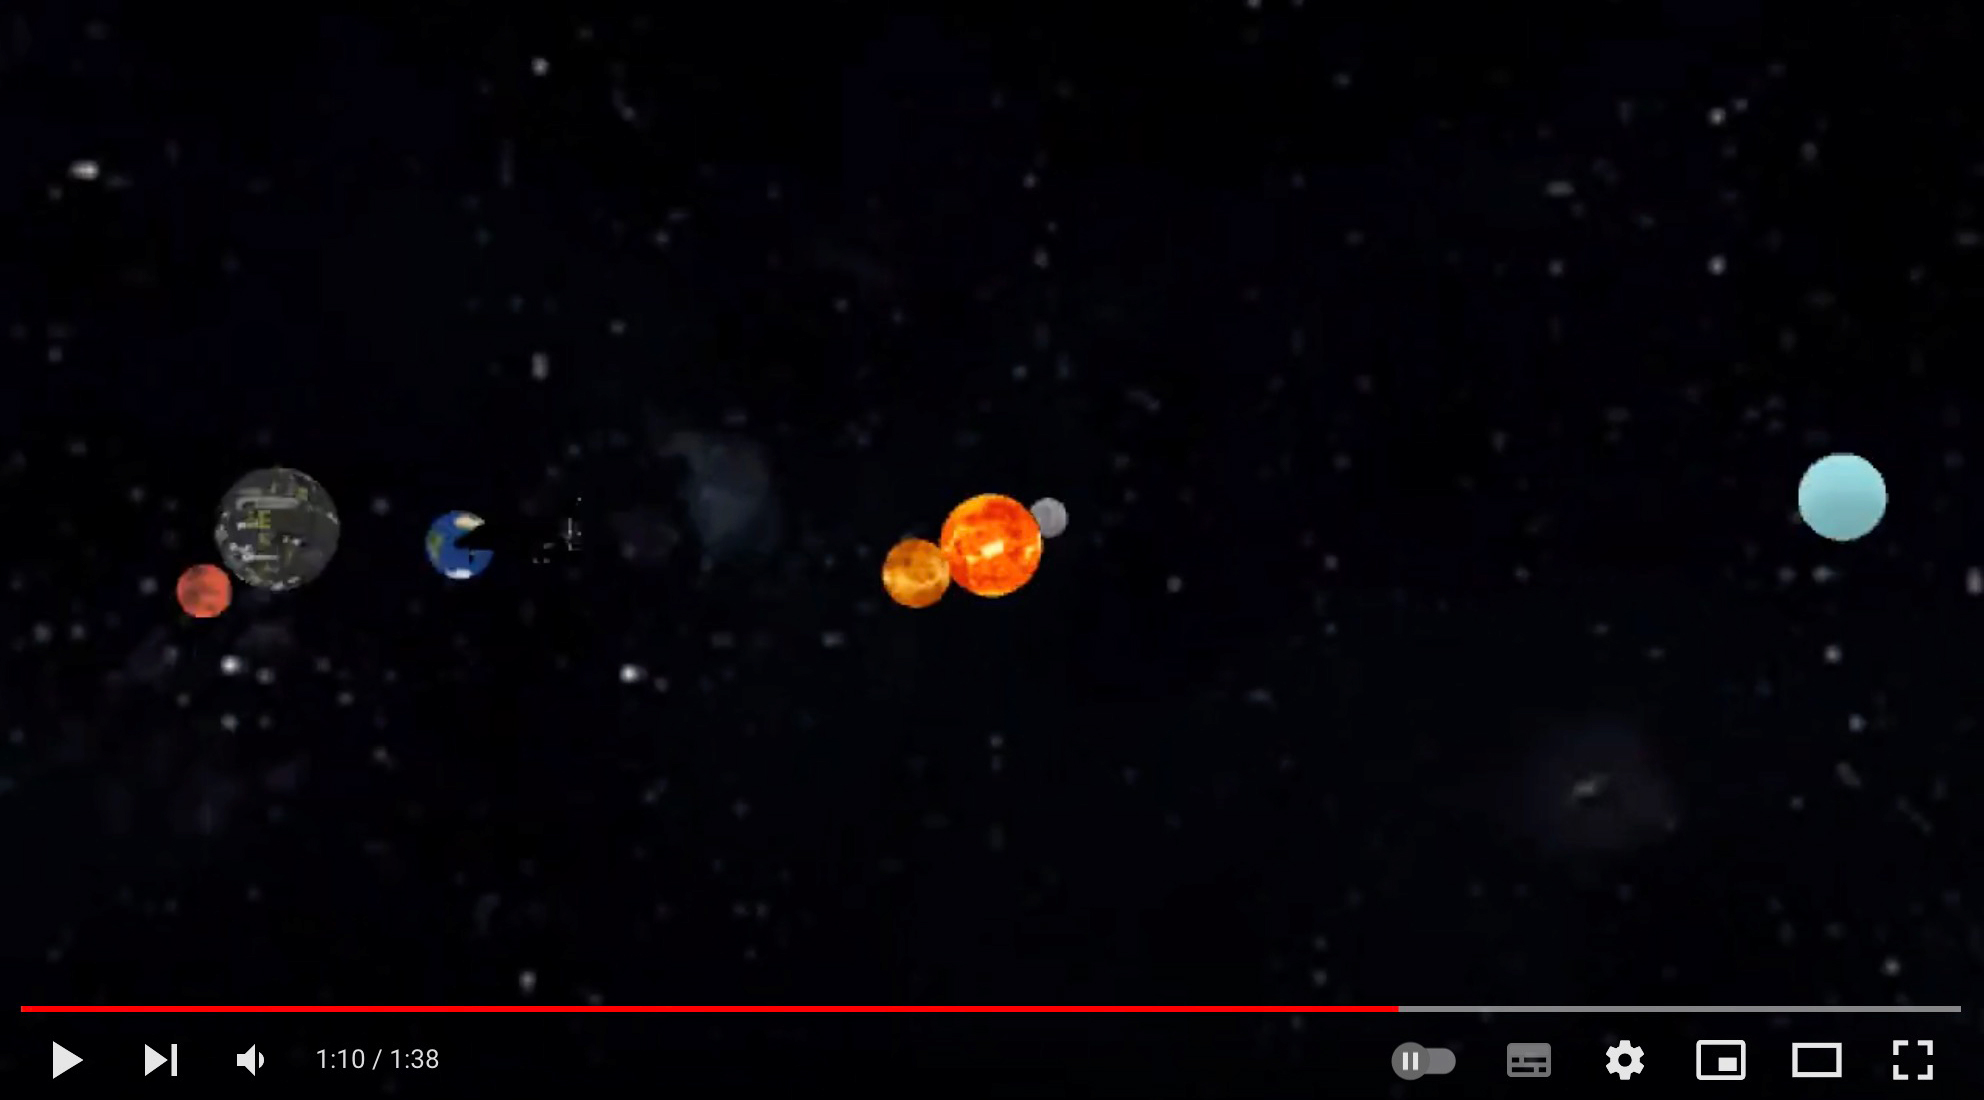
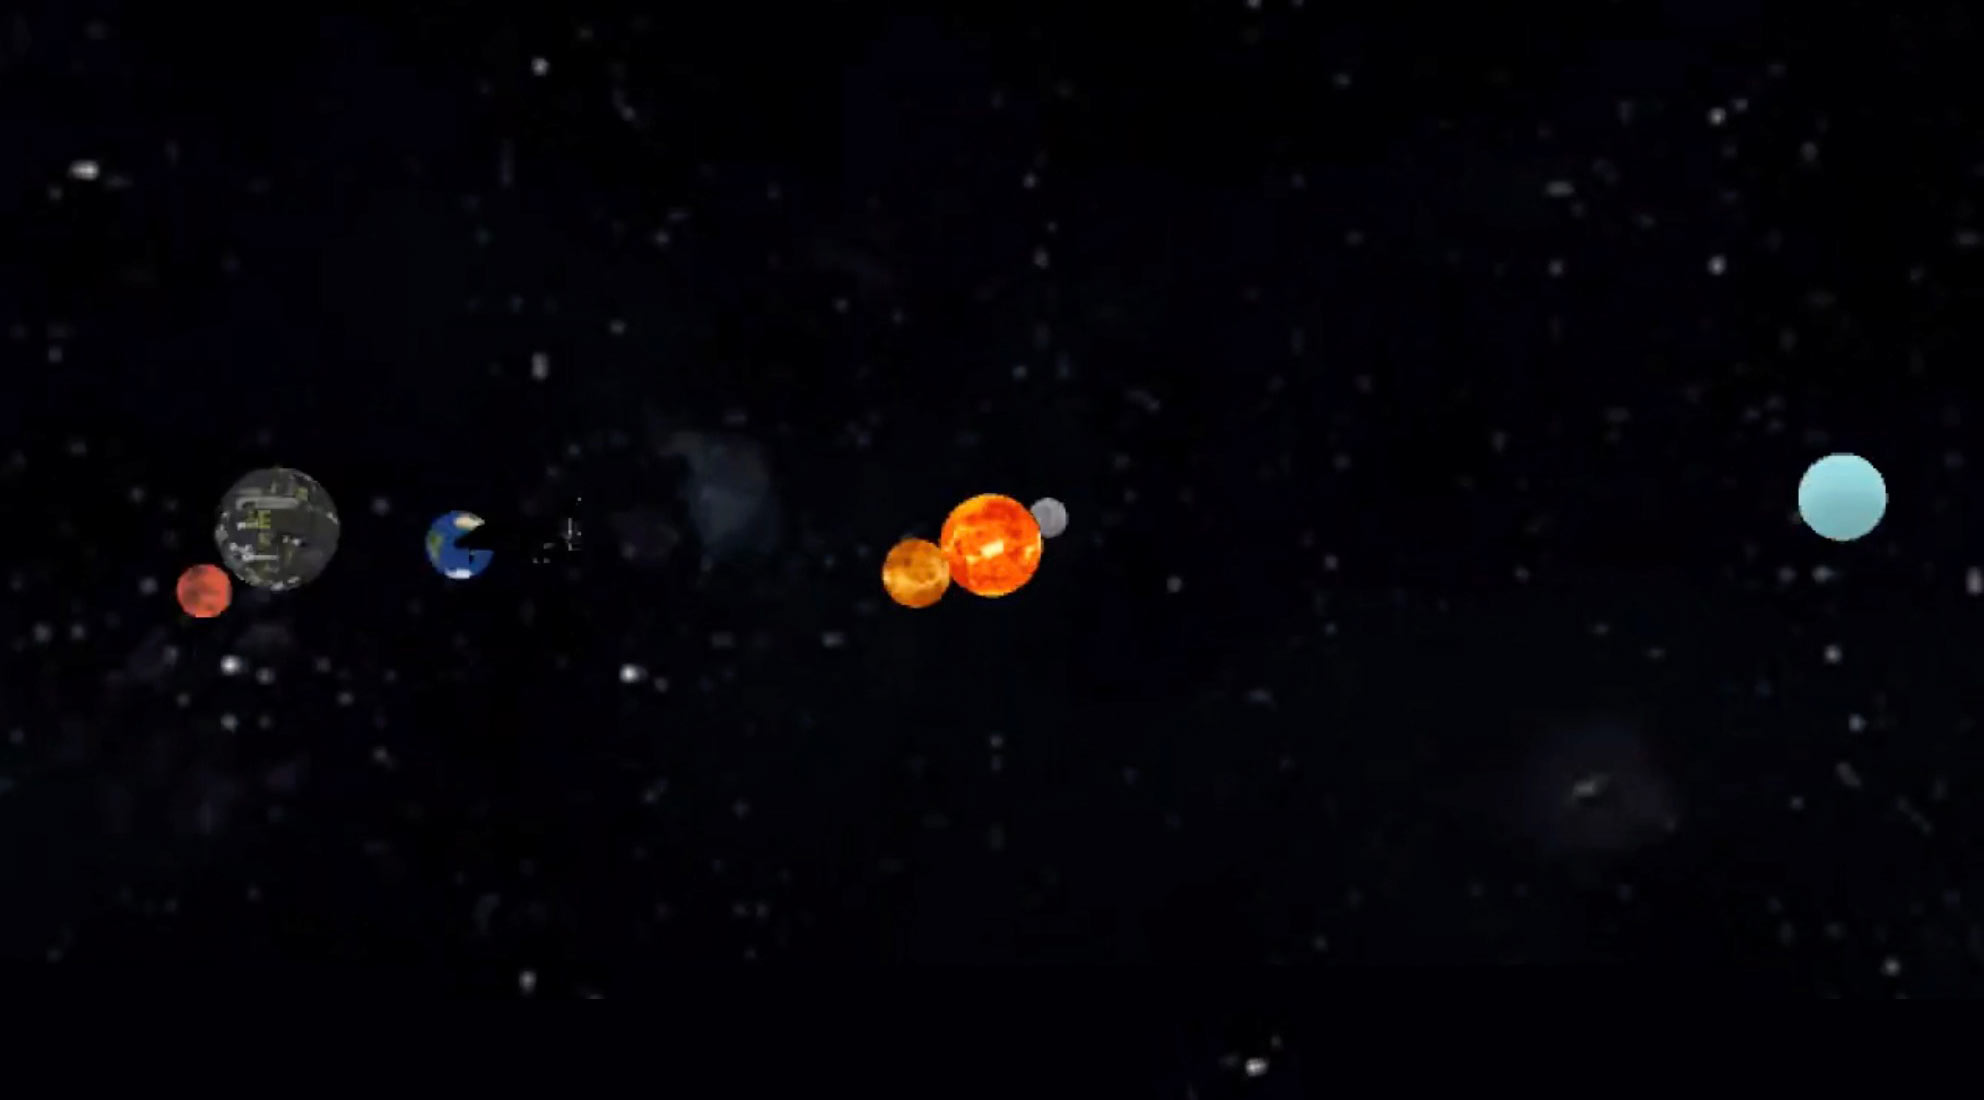
Video
Video commit

diff --git a/starrysky/index.html b/starrysky/index.html
@@ -455,6 +455,14 @@
 				</div>
 			</div>
 		</div>
+		<!--share youtube video start-->
+		<div class="stl_02">
+			<div class="stl_03">
+				<iframe width="1200px" height="800px" src="https://www.youtube.com/embed/hiIpT4O_VkM?si=RXc-wCpMgsu-VgdP" title="YouTube video player" frameborder="0" allow="accelerometer; autoplay; clipboard-write; encrypted-media; gyroscope; picture-in-picture; web-share" allowfullscreen>
+				</iframe>
+			</div>
+		</div>
+		<!--share youtube video end-->
 	</div>
 	</body>
 </html>
